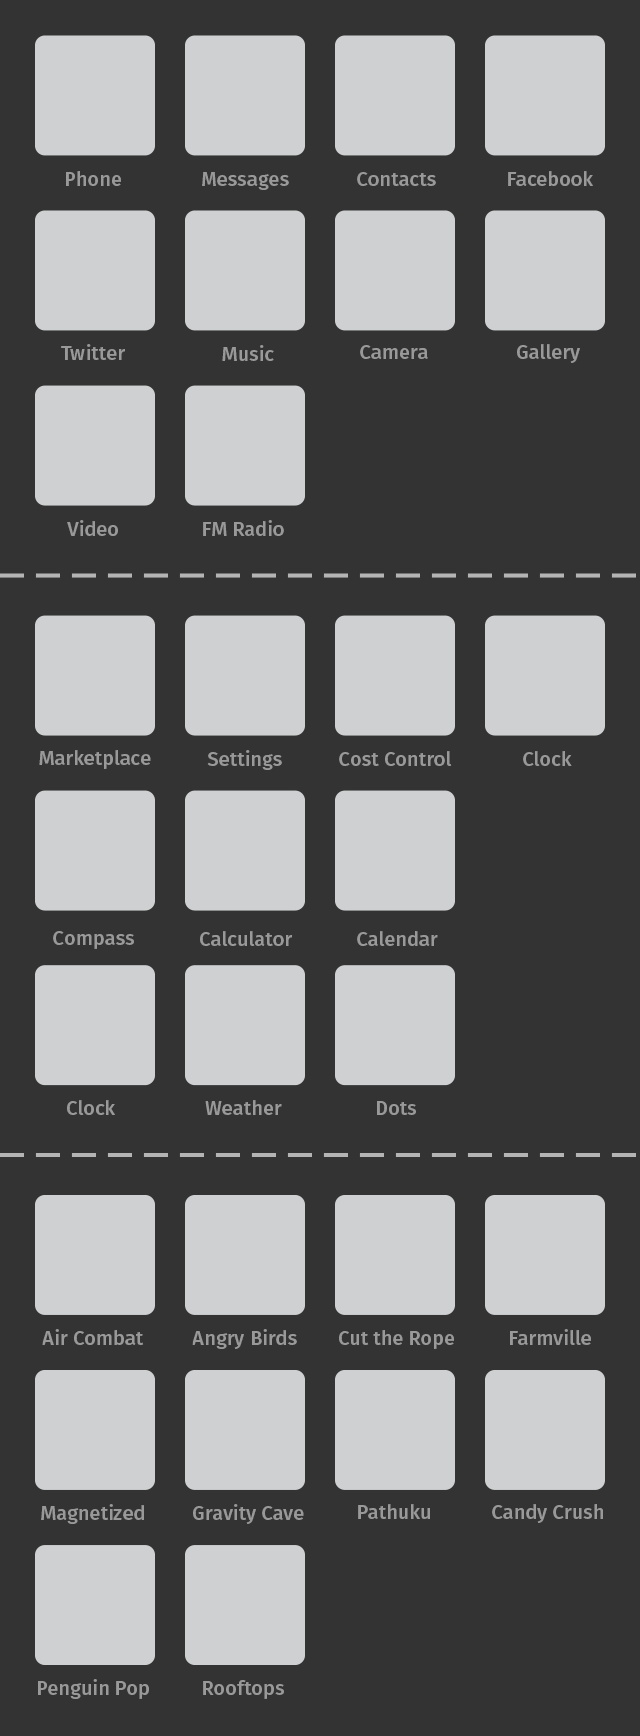
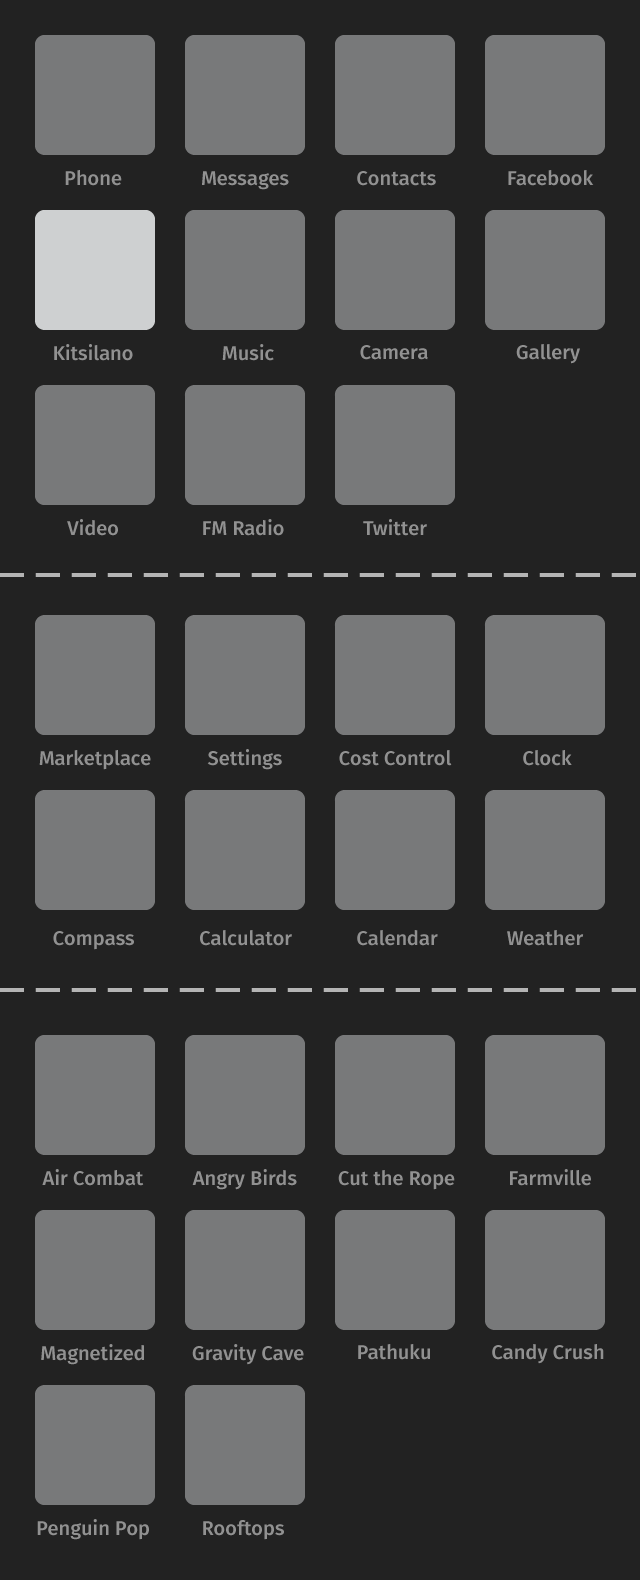
Update home graphic
...and CSS.

diff --git a/assets/main.css b/assets/main.css
@@ -204,7 +204,7 @@ video {
 .hs-homescreen {
   background-image: url(home.png);
   background-size: 320px;
-  height: 868px;
+  height: 790px;
   position: absolute;
   top: 20px;
   width: 320px;
